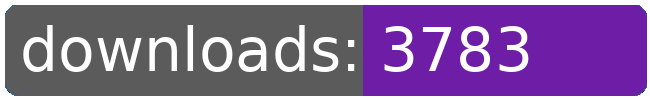
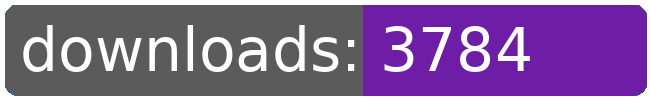
dl log written

Changed region(s): [[0.7692, 0.24, 0.8308, 0.72]]

diff --git a/README.md b/README.md
@@ -21,8 +21,8 @@
 		<td>3740</td>
 		<td>3758</td>
 		<td>3773</td>
-		<td>3783</td>
-		<td>+ 10</td>
+		<td>3784</td>
+		<td>+ 11</td>
 	</tr>
 	<tr>
 		<td>aberrant.kahet.outfitter</td>
@@ -274,8 +274,8 @@
 		<td></td>
 		<td></td>
 		<td></td>
-		<td>55919</td>
-		<td>180</td>
+		<td>55920</td>
+		<td>181</td>
 	</tr>
 </table>
 </sub></sup>
@@ -322,8 +322,8 @@
 		<td>3740</td>
 		<td>3758</td>
 		<td>3773</td>
-		<td>3783</td>
-		<td>+ 10</td>
+		<td>3784</td>
+		<td>+ 11</td>
 	</tr>
 	<tr>
 		<td>capture.archons</td>
@@ -553,8 +553,8 @@
 		<td></td>
 		<td></td>
 		<td></td>
-		<td>55919</td>
-		<td>180</td>
+		<td>55920</td>
+		<td>181</td>
 	</tr>
 </table>
 </sub></sup>
